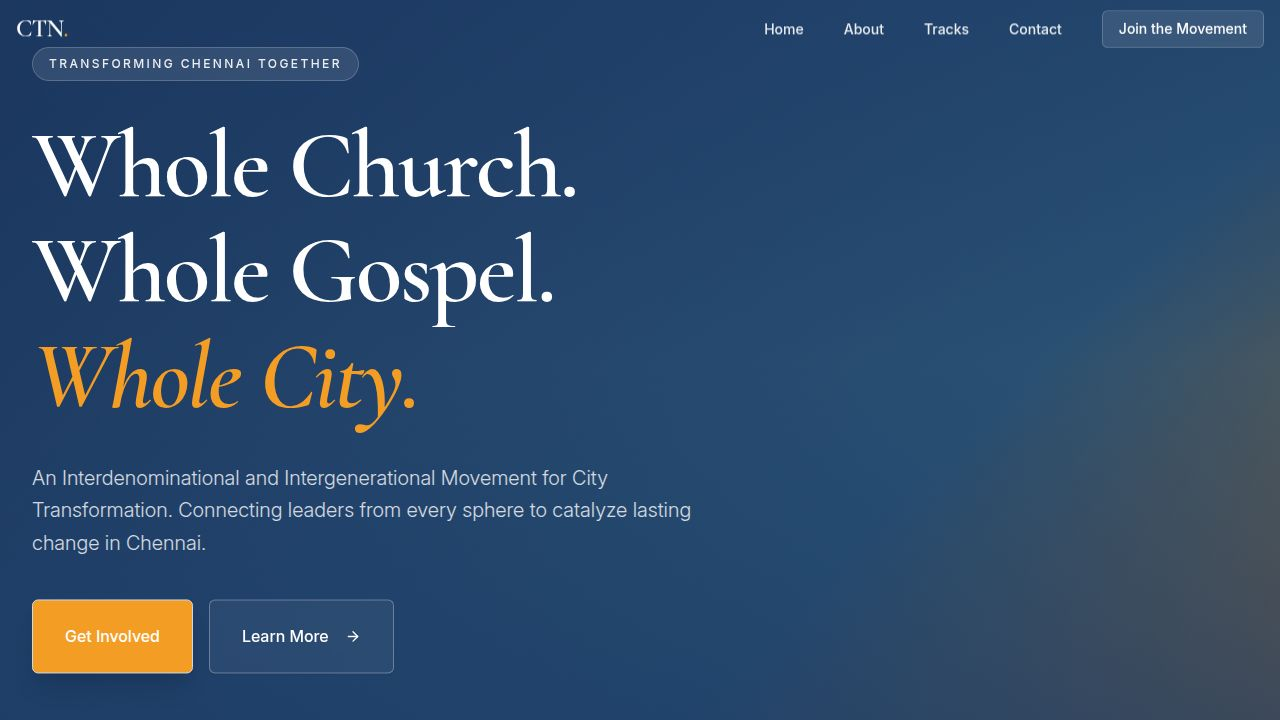
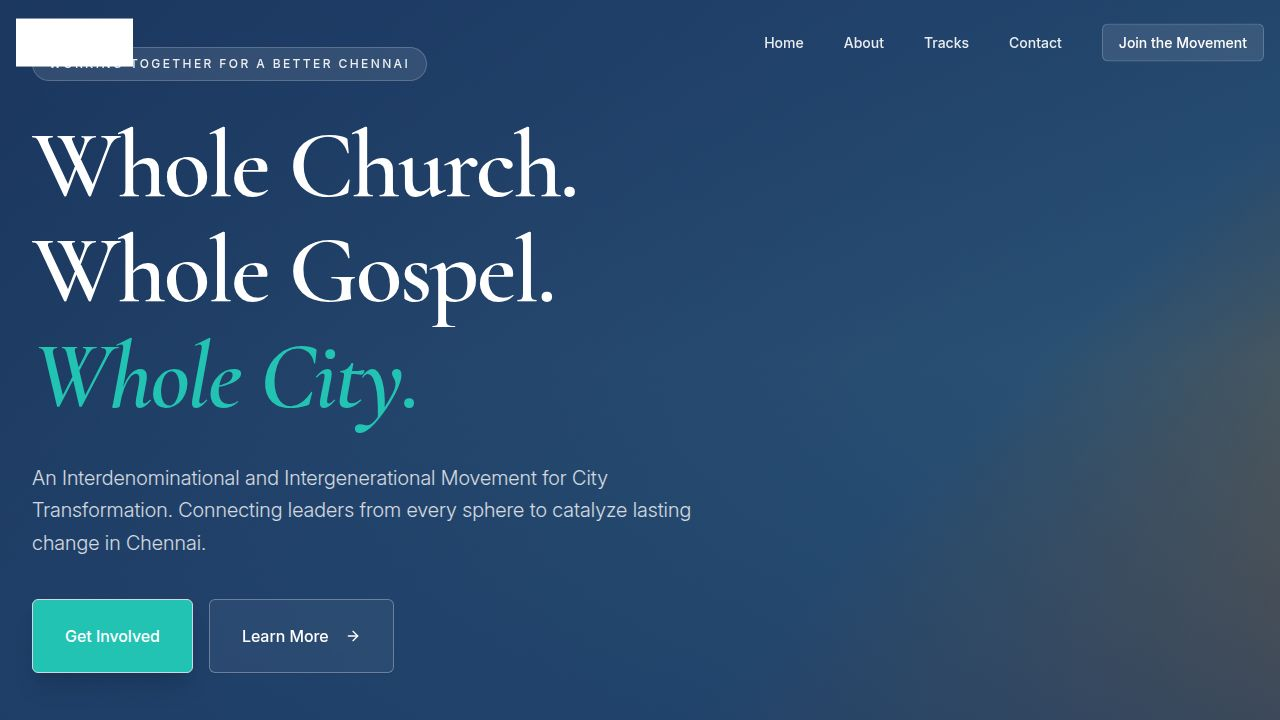
Update website branding and content to reflect CTN's mission
Replaces the favicon and logo with CTN branding, updates the hero tagline, and refactors the tracks section with new content, names, and imagery. Also adjusts navigation bar styling and accent colors to match the new branding.

Replit-Commit-Author: Agent
Replit-Commit-Session-Id: 50249acb-10a2-41fd-bf73-d86564462108
Replit-Commit-Checkpoint-Type: full_checkpoint
Replit-Commit-Event-Id: ce628b95-5dba-4cda-adfa-4e9497121e0a
Replit-Commit-Screenshot-Url: https://storage.googleapis.com/screenshot-production-us-central1/5f5f8d55-c84a-4ece-b2ee-39d8d74204ae/50249acb-10a2-41fd-bf73-d86564462108/lZ998Wn
Replit-Helium-Checkpoint-Created: true

diff --git a/client/src/pages/Home.tsx b/client/src/pages/Home.tsx
@@ -17,65 +17,72 @@ import {
   MapPin,
   Mail,
   Phone,
-  ArrowRight
+  ArrowRight,
+  Building2
 } from "lucide-react";
 
-import communityImg from "@assets/generated_images/diverse_community_unity.png";
+import churchesImg from "@assets/generated_images/churches_united_in_worship.png";
+import prayerImg from "@assets/generated_images/people_praying_together_unity.png";
 import youthImg from "@assets/generated_images/young_adults_collaborating.png";
 import marketplaceImg from "@assets/generated_images/modern_marketplace_professionals.png";
 import socialImg from "@assets/generated_images/compassionate_social_action.png";
-import prayerImg from "@assets/generated_images/people_praying_together_unity.png";
 import mediaImg from "@assets/generated_images/creative_media_production_team.png";
 import mentalHealthImg from "@assets/generated_images/mental_health_support_counseling.png";
 
 export default function Home() {
   const tracks = [
     {
-      title: "Movement of Churches",
-      description: "Building unity and growth across the Body of Christ. Strengthening existing congregations and supporting new church plants.",
+      title: "CTN Movement of Churches",
+      description: "Building unity and growth across the Body of Christ. We intentionally nurture unity among Churches in Chennai, strengthening existing congregations and supporting new church plants. Together, we work to build healthy Churches that reflect Christ's love, serve their neighbourhoods, and join hands in citywide transformation.",
       icon: Church,
-      image: communityImg
+      image: churchesImg
     },
     {
-      title: "Movement of Prayer",
-      description: "Uniting the city through prayer. Gathering across regions and denominations to intercede for our city and leaders.",
+      title: "CTN Mobilisation of Prayer",
+      description: "Uniting the city through prayer. We gather regularly across regions and denominations to pray for our city, its leaders, and its people. Through united prayer gatherings and citywide initiatives, we believe that transformation begins when we seek God together in humility and faith.",
       icon: Sparkles,
       image: prayerImg
     },
     {
-      title: "Youth Track",
-      description: "Empowering the next generation of leaders through sports, music, and discipleship programs.",
+      title: "CTN Millennials Track",
+      description: "Empowering the next generation of leaders. We engage youth and young adults through sports, music, creative events, and discipleship programmes. By recognising their gifts and nurturing Kingdom values, we are raising a generation of city changers—leaders who will carry God's heart into every sphere of society.",
       icon: Users,
       image: youthImg
     },
     {
-      title: "Marketplace Track",
-      description: "Equipping professionals and entrepreneurs to integrate faith with work and transform their industries.",
+      title: "CTN Business Track",
+      description: "Building the Kingdom by transforming the marketplace to impact the city. We equip entrepreneurs & business leaders to integrate faith with their work, bringing integrity, compassion, and Kingdom purpose into their industries. Through our collaboration and mentoring, we seek to transform the marketplace and influence the city for Christ.",
       icon: Briefcase,
       image: marketplaceImg
     },
     {
-      title: "CITYSERVE (MEET)",
-      description: "Empowering the Church to engage meaningfully with the marginalised and vulnerable communities.",
+      title: "CTN Professionals Track",
+      description: "We equip professionals to lead with integrity, excellence, and purpose in their workplaces. Through collaboration, mentoring, and shared learning, we empower leaders to positively impact their industries, shape ethical cultures, and contribute to the transformation of the marketplace and the city.",
+      icon: Building2,
+      image: undefined
+    },
+    {
+      title: "CTN Marginalised Track (MEET)",
+      description: "Empowering and equipping the Church to engage meaningfully with the marginalised. Through the Marginalised Empowering and Equipping Track (MEET), we help Churches and organisations engage with the city's most vulnerable communities. We catalyse partnerships, promote justice, and inspire compassion so that the Church becomes a visible expression of God's love in action.",
       icon: HeartHandshake,
       image: socialImg
     },
     {
-      title: "Media Track",
-      description: "Bridging the gap between Church and community through creative storytelling and fresh content.",
+      title: "CTN Media Track",
+      description: "Bridging the gap between Church and community through creative storytelling. We collaborate with media professionals and creatives to share positive stories, develop fresh content, and communicate Kingdom values. Our goal is to amplify hope-filled narratives, bridge the gap between the Church and community, and advance the Great Commission through the power of creativity.",
       icon: Video,
       image: mediaImg
     },
     {
-      title: "Mental Health Track",
-      description: "Restoring hope and wholeness through mental health awareness, care, and early intervention.",
+      title: "CTN Mental Health Track",
+      description: "Restoring hope and wholeness through mental health awareness and care. We believe that emotional and spiritual well-being are vital to city transformation. The Mental Health Track brings together Churches, counsellors, professionals, and volunteers to equip communities with tools for care, awareness, and early intervention. We seek to break stigma, offer support, and nurture wholeness in individuals and families across the city.",
       icon: BrainCircuit,
       image: mentalHealthImg
     }
   ];
 
   const stats = [
-    { number: "7", label: "Transformation Tracks" },
+    { number: "8", label: "Transformation Tracks" },
     { number: "100+", label: "Partner Churches" },
     { number: "1000+", label: "Lives Impacted" },
     { number: "1", label: "United Vision" }
@@ -127,7 +134,7 @@ export default function Home() {
               </AnimatedSection>
               <AnimatedSection delay={0.2}>
                 <p className="text-lg md:text-xl text-muted-foreground leading-relaxed mb-12 font-light max-w-3xl mx-auto">
-                  We are a growing movement of Christian leaders from various spheres of influence in the city—from Churches, NGOs, the Marketplace, Government spaces, and other sectors. Our vision is that the Whole Church will take the Whole Gospel to the Whole City, resulting in a transformed Chennai.
+                  We are a growing movement of Christian leaders from various spheres of influence in the city—from Churches, NGOs, the Marketplace, Government spaces, and other sectors—coming together to Connect, Collaborate, Create, Catalyse, and Celebrate. Our vision is that the Whole Church will take the Whole Gospel to the Whole City, resulting in a transformed Chennai.
                 </p>
               </AnimatedSection>
               <AnimatedSection delay={0.3}>
@@ -226,9 +233,11 @@ export default function Home() {
             <FadeIn>
               <div className="grid grid-cols-1 md:grid-cols-3 gap-16">
                 <div>
-                  <div className="text-3xl font-serif font-semibold text-white tracking-tight mb-6">
-                    CTN<span className="text-accent">.</span>
-                  </div>
+                  <img 
+                    src="/ctn-logo.png" 
+                    alt="Chennai Transformation Network" 
+                    className="h-16 mb-6 brightness-0 invert"
+                  />
                   <p className="text-gray-400 leading-relaxed font-light">
                     An Interdenominational and Intergenerational Movement for City Transformation in Chennai.
                   </p>
@@ -247,13 +256,10 @@ export default function Home() {
                       <div className="w-10 h-10 rounded-full bg-white/5 flex items-center justify-center group-hover:bg-accent/20 transition-colors">
                         <Mail className="w-4 h-4 text-accent" />
                       </div>
-                      <span className="font-light">contact@ctnchennai.org</span>
-                    </div>
-                    <div className="flex items-center gap-4 text-gray-400 hover:text-white transition-colors group">
-                      <div className="w-10 h-10 rounded-full bg-white/5 flex items-center justify-center group-hover:bg-accent/20 transition-colors">
-                        <Phone className="w-4 h-4 text-accent" />
+                      <div className="font-light flex flex-col">
+                        <span>rameshr@ctnchennai.org</span>
+                        <span>nelsons@ctnchennai.org</span>
                       </div>
-                      <span className="font-light">+91 98765 43210</span>
                     </div>
                   </div>
                 </div>

diff --git a/client/src/components/Navigation.tsx b/client/src/components/Navigation.tsx
@@ -30,14 +30,19 @@ export function Navigation() {
       transition={{ duration: 0.6, ease: [0.25, 0.1, 0.25, 1] }}
       className={`fixed top-0 left-0 right-0 z-50 transition-all duration-500 ${
         isScrolled
-          ? "bg-white/95 backdrop-blur-md shadow-sm py-4"
-          : "bg-transparent py-6"
+          ? "bg-white/95 backdrop-blur-md shadow-sm py-3"
+          : "bg-transparent py-5"
       }`}
     >
       <div className="container mx-auto px-4 flex justify-between items-center">
-        <a href="/" className="text-2xl font-serif font-semibold tracking-tight transition-colors duration-300">
-          <span className={isScrolled ? "text-primary" : "text-white"}>CTN</span>
-          <span className="text-accent">.</span>
+        <a href="/" className="flex items-center gap-3">
+          <img 
+            src="/ctn-logo.png" 
+            alt="CTN" 
+            className={`h-10 md:h-12 transition-all duration-300 ${
+              isScrolled ? "" : "brightness-0 invert"
+            }`}
+          />
         </a>
 
         {/* Desktop Nav */}
@@ -58,7 +63,7 @@ export function Navigation() {
             <Button 
               className={`font-medium transition-all duration-300 hover:scale-[1.02] ${
                 isScrolled 
-                  ? "bg-primary text-primary-foreground hover:bg-primary/90" 
+                  ? "bg-accent text-white hover:bg-accent/90" 
                   : "bg-white/10 backdrop-blur-sm border border-white/20 text-white hover:bg-white/20"
               }`}
               data-testid="button-join-nav"
@@ -111,7 +116,7 @@ export function Navigation() {
                 transition={{ delay: 0.4 }}
               >
                 <ContactDialog triggerText="Join the Movement">
-                  <Button className="w-full bg-primary" data-testid="button-join-mobile">
+                  <Button className="w-full bg-accent hover:bg-accent/90" data-testid="button-join-mobile">
                     Join the Movement
                   </Button>
                 </ContactDialog>

diff --git a/client/src/index.css b/client/src/index.css
@@ -42,8 +42,8 @@
   --secondary: 35 30% 94%;
   --secondary-foreground: 215 60% 25%;
 
-  /* Accent: Marigold/Orange */
-  --accent: 35 90% 55%;
+  /* Accent: CTN Teal */
+  --accent: 174 70% 45%;
   --accent-foreground: 0 0% 100%;
 
   --background: 40 20% 98%;
@@ -88,7 +88,7 @@
   --muted: 215 40% 20%;
   --muted-foreground: 215 20% 70%;
   
-  --accent: 35 90% 55%;
+  --accent: 174 70% 50%;
   --accent-foreground: 0 0% 100%;
   
   --border: 215 40% 20%;

diff --git a/client/src/components/Hero.tsx b/client/src/components/Hero.tsx
@@ -81,7 +81,7 @@ export function Hero() {
             variants={fadeInUp}
             className="inline-block py-2 px-4 rounded-full bg-white/10 text-white/90 border border-white/20 text-xs font-medium uppercase tracking-[0.2em] mb-8 backdrop-blur-sm"
           >
-            Transforming Chennai Together
+            Working Together for a Better Chennai
           </motion.span>
           
           <motion.h1 
